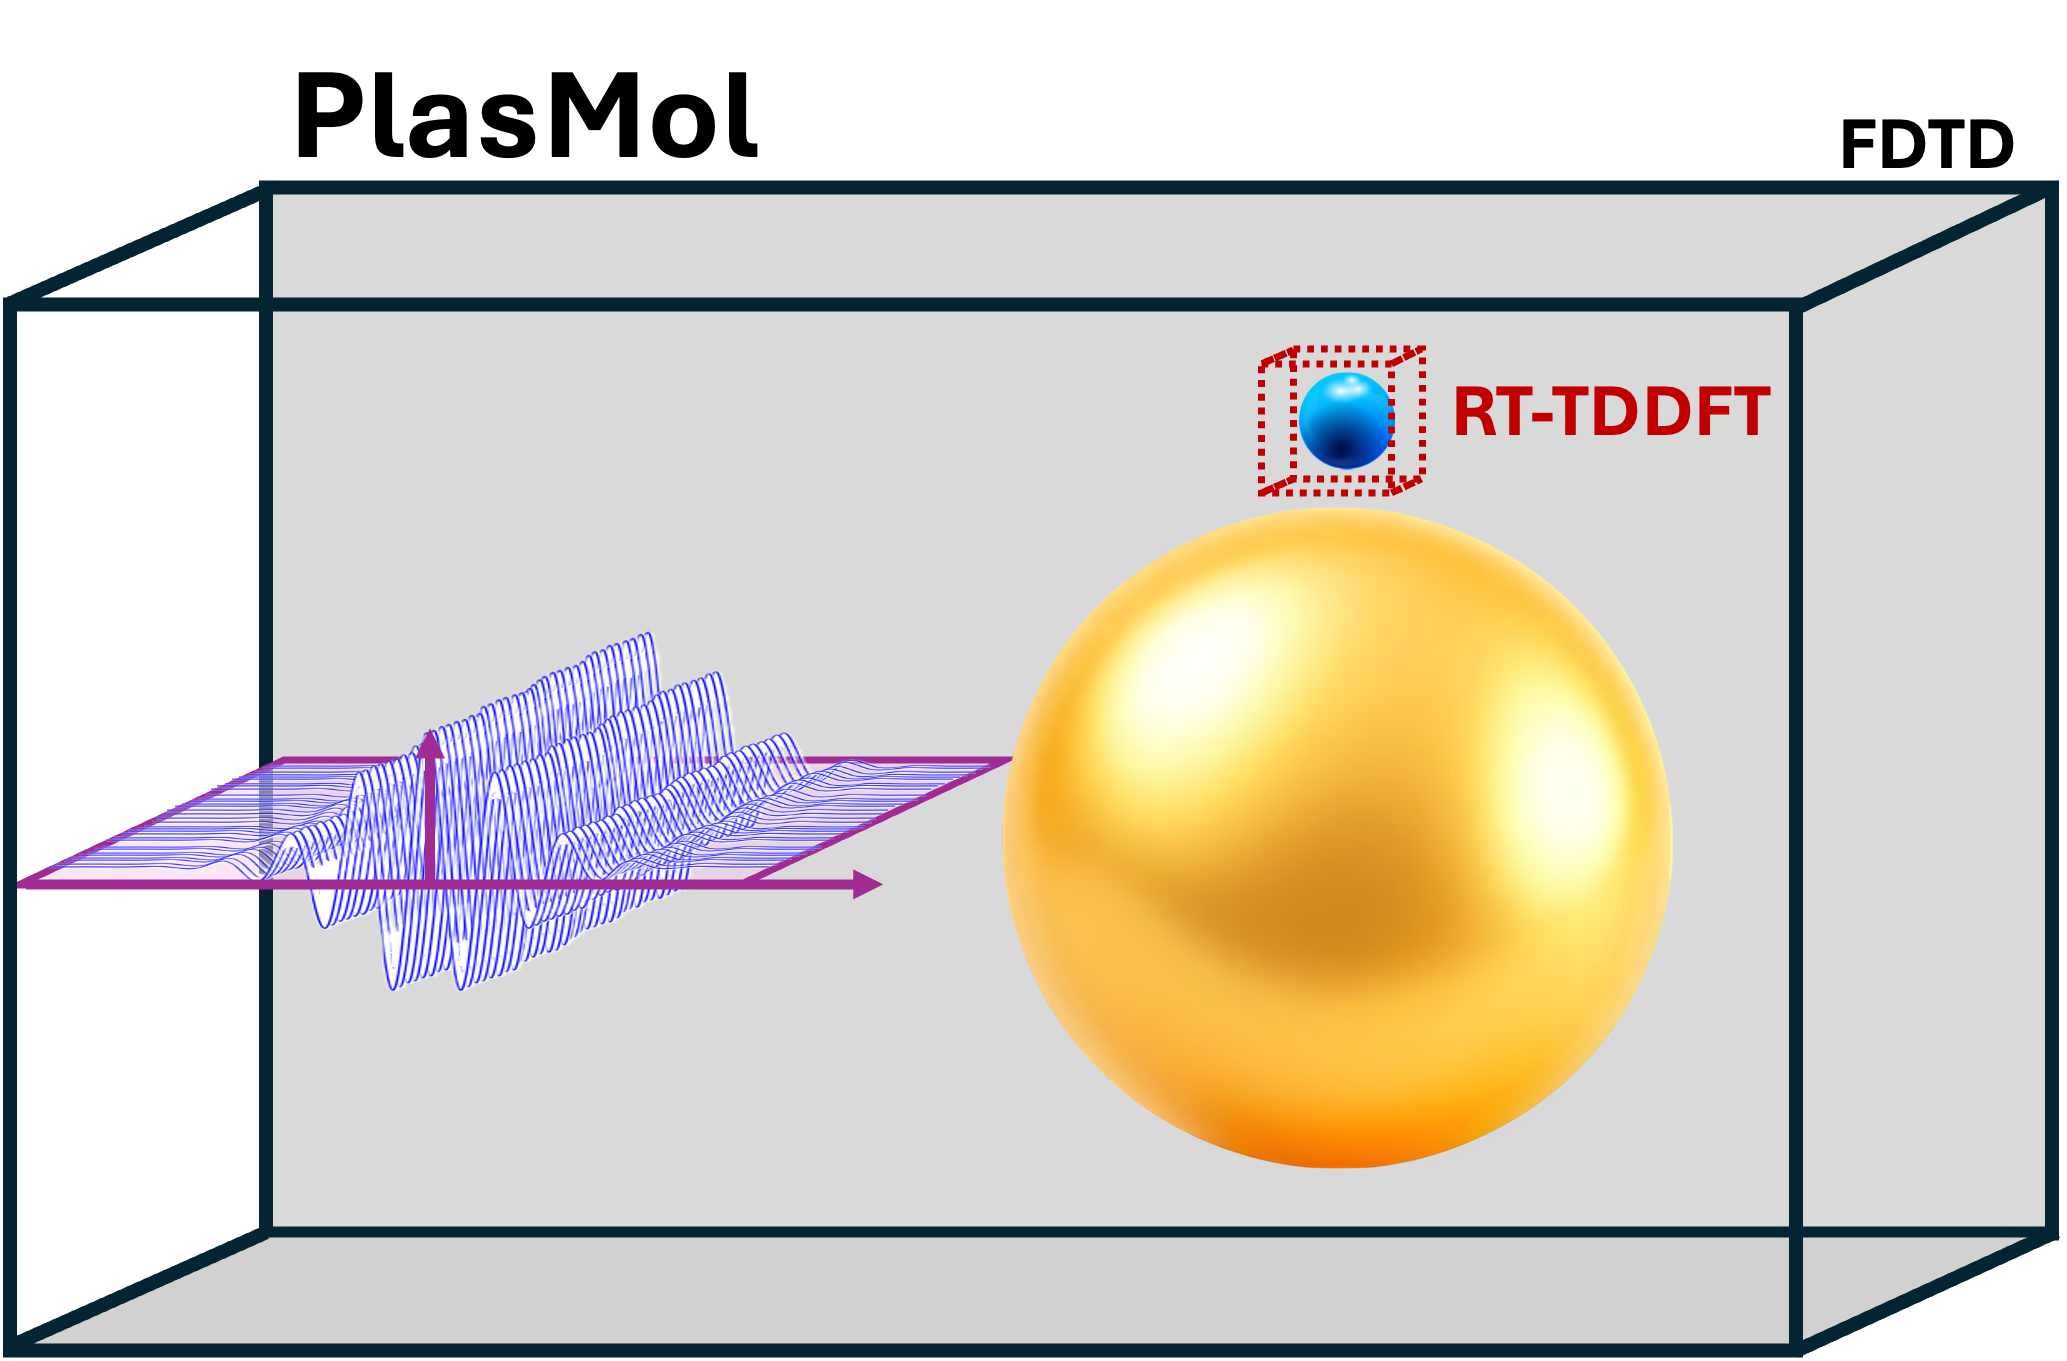
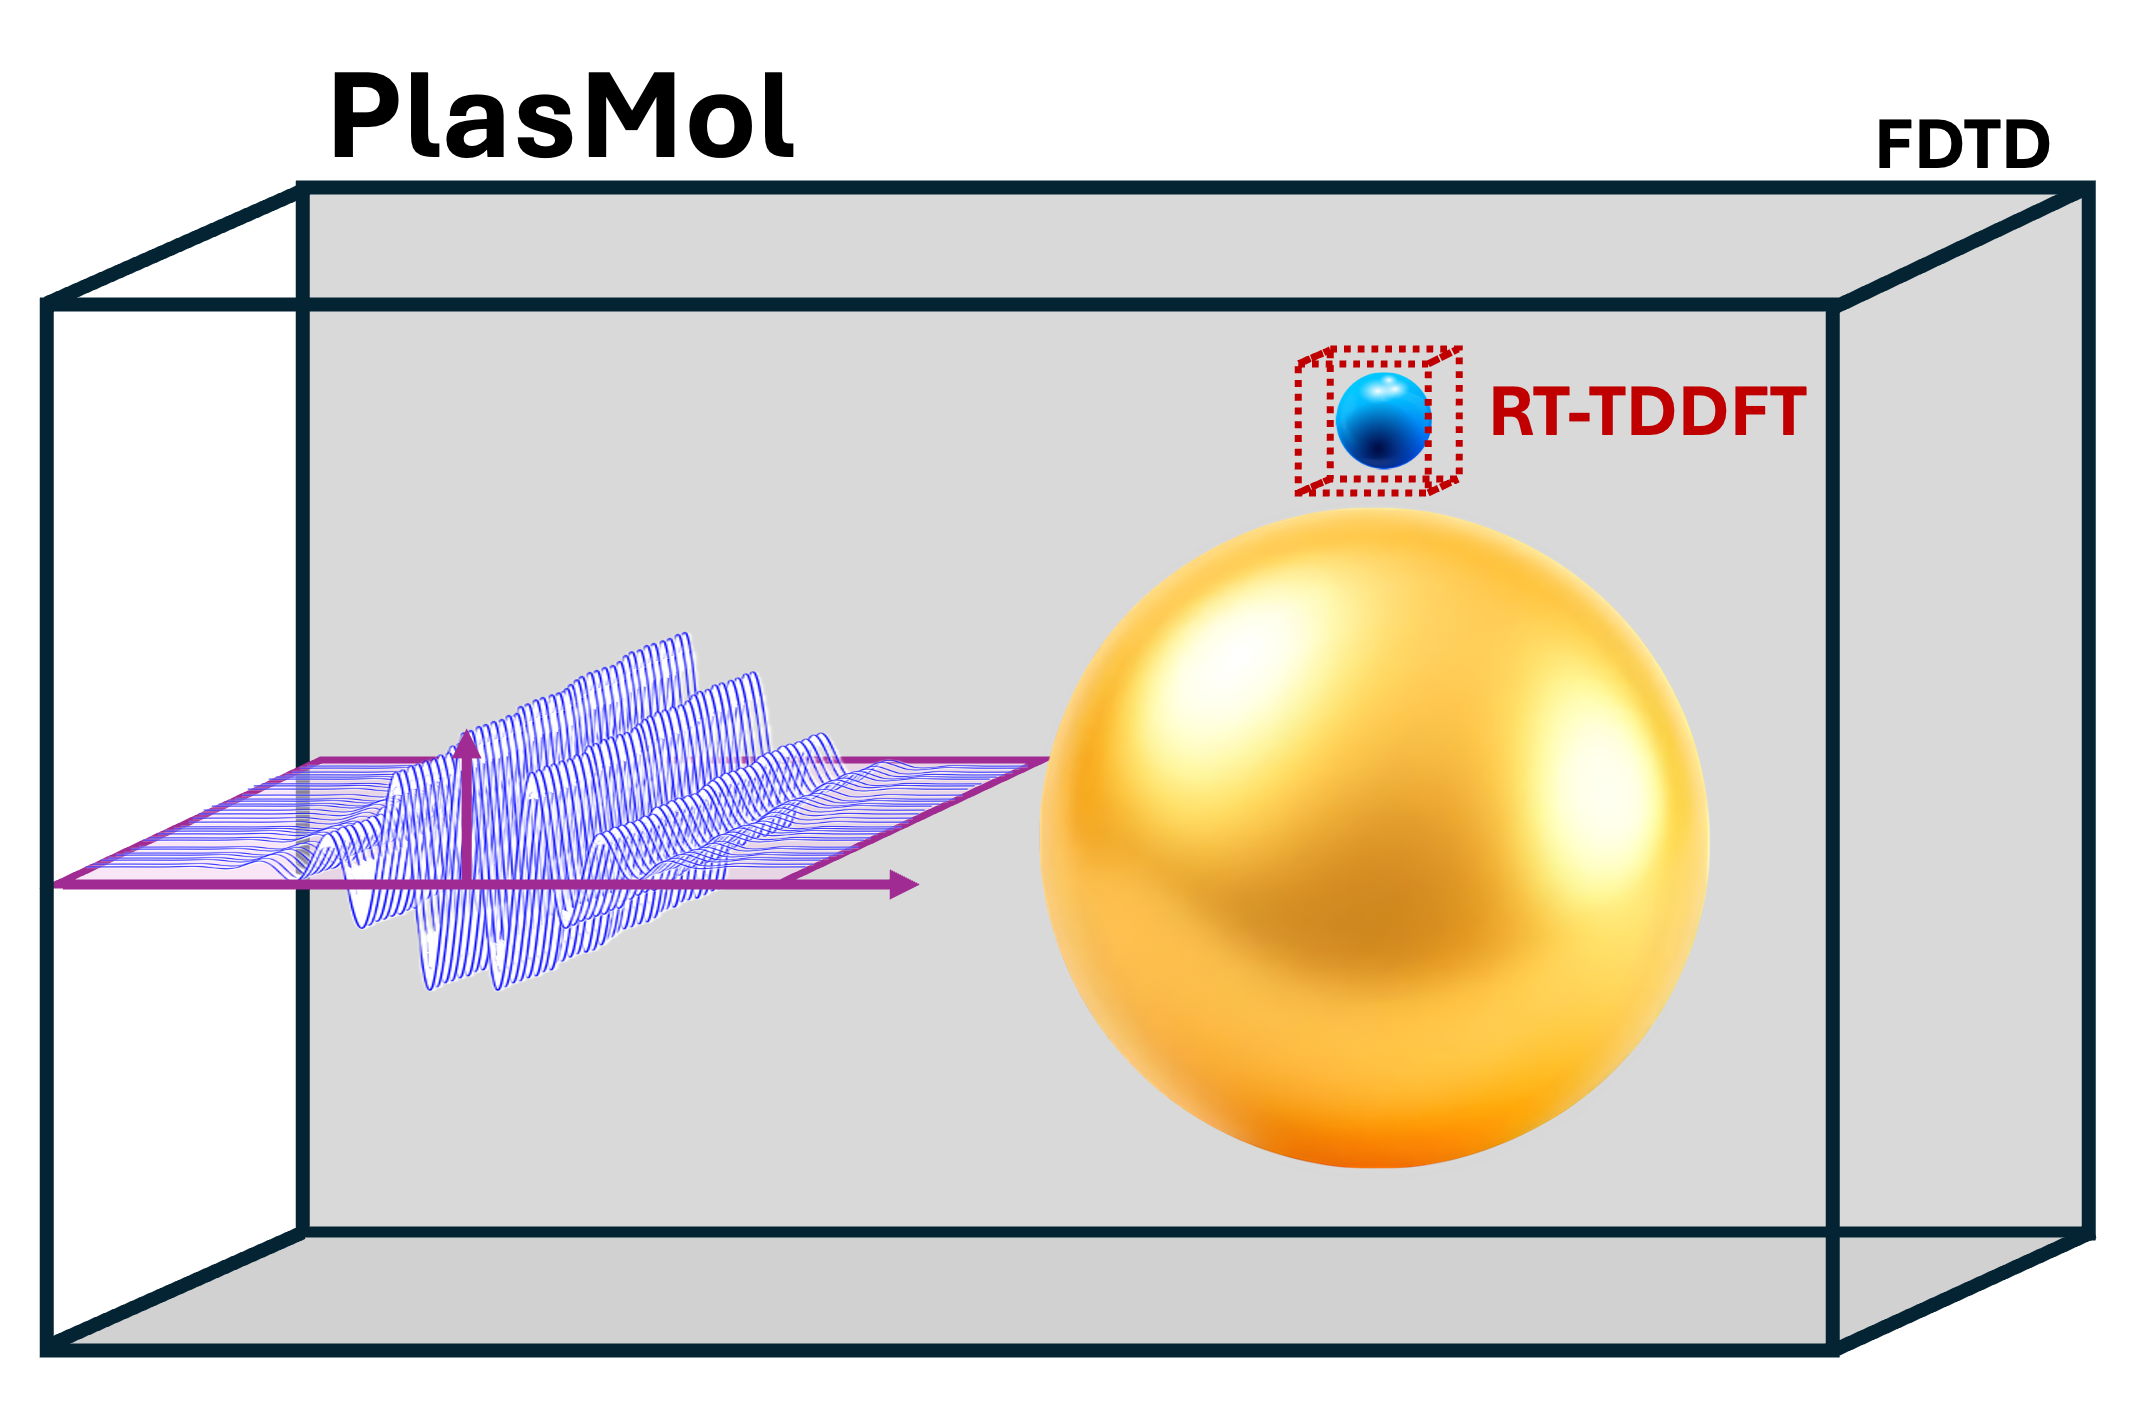
README updated

Changed region(s): [[0.0, 0.0309, 1.0, 1.0], [0.4644, 0.6481, 0.4954, 0.6789]]

diff --git a/README.md b/README.md
@@ -1,13 +1,13 @@
 # PlasMol: Simulating Plasmon-Molecule Interactions
 
-![PlasMol Logo](doc/docs/PlasMol.png)
+![PlasMol Logo](doc/docs/assets/PlasMol.png)
 
 [![License: GPL-3.0](https://img.shields.io/badge/License-GPL--3.0-blue.svg)](https://github.com/kombatEldridge/PlasMol/blob/main/LICENSE)
 [![Python Version](https://img.shields.io/badge/Python-3.9%2B-brightgreen.svg)](https://www.python.org/downloads/)
 [![GitHub Issues](https://img.shields.io/github/issues/kombatEldridge/PlasMol.svg)](https://github.com/kombatEldridge/PlasMol/issues)
 [![GitHub Stars](https://img.shields.io/github/stars/kombatEldridge/PlasMol.svg?style=social)](https://github.com/kombatEldridge/PlasMol/stargazers)
 
-**Current version: v1.2.0 (July 2026)
+**Current version: v1.2.0 (July 2026)**
 
 Read the full documentation: [https://kombateldridge.github.io/PlasMol/](https://kombateldridge.github.io/PlasMol/)
 
